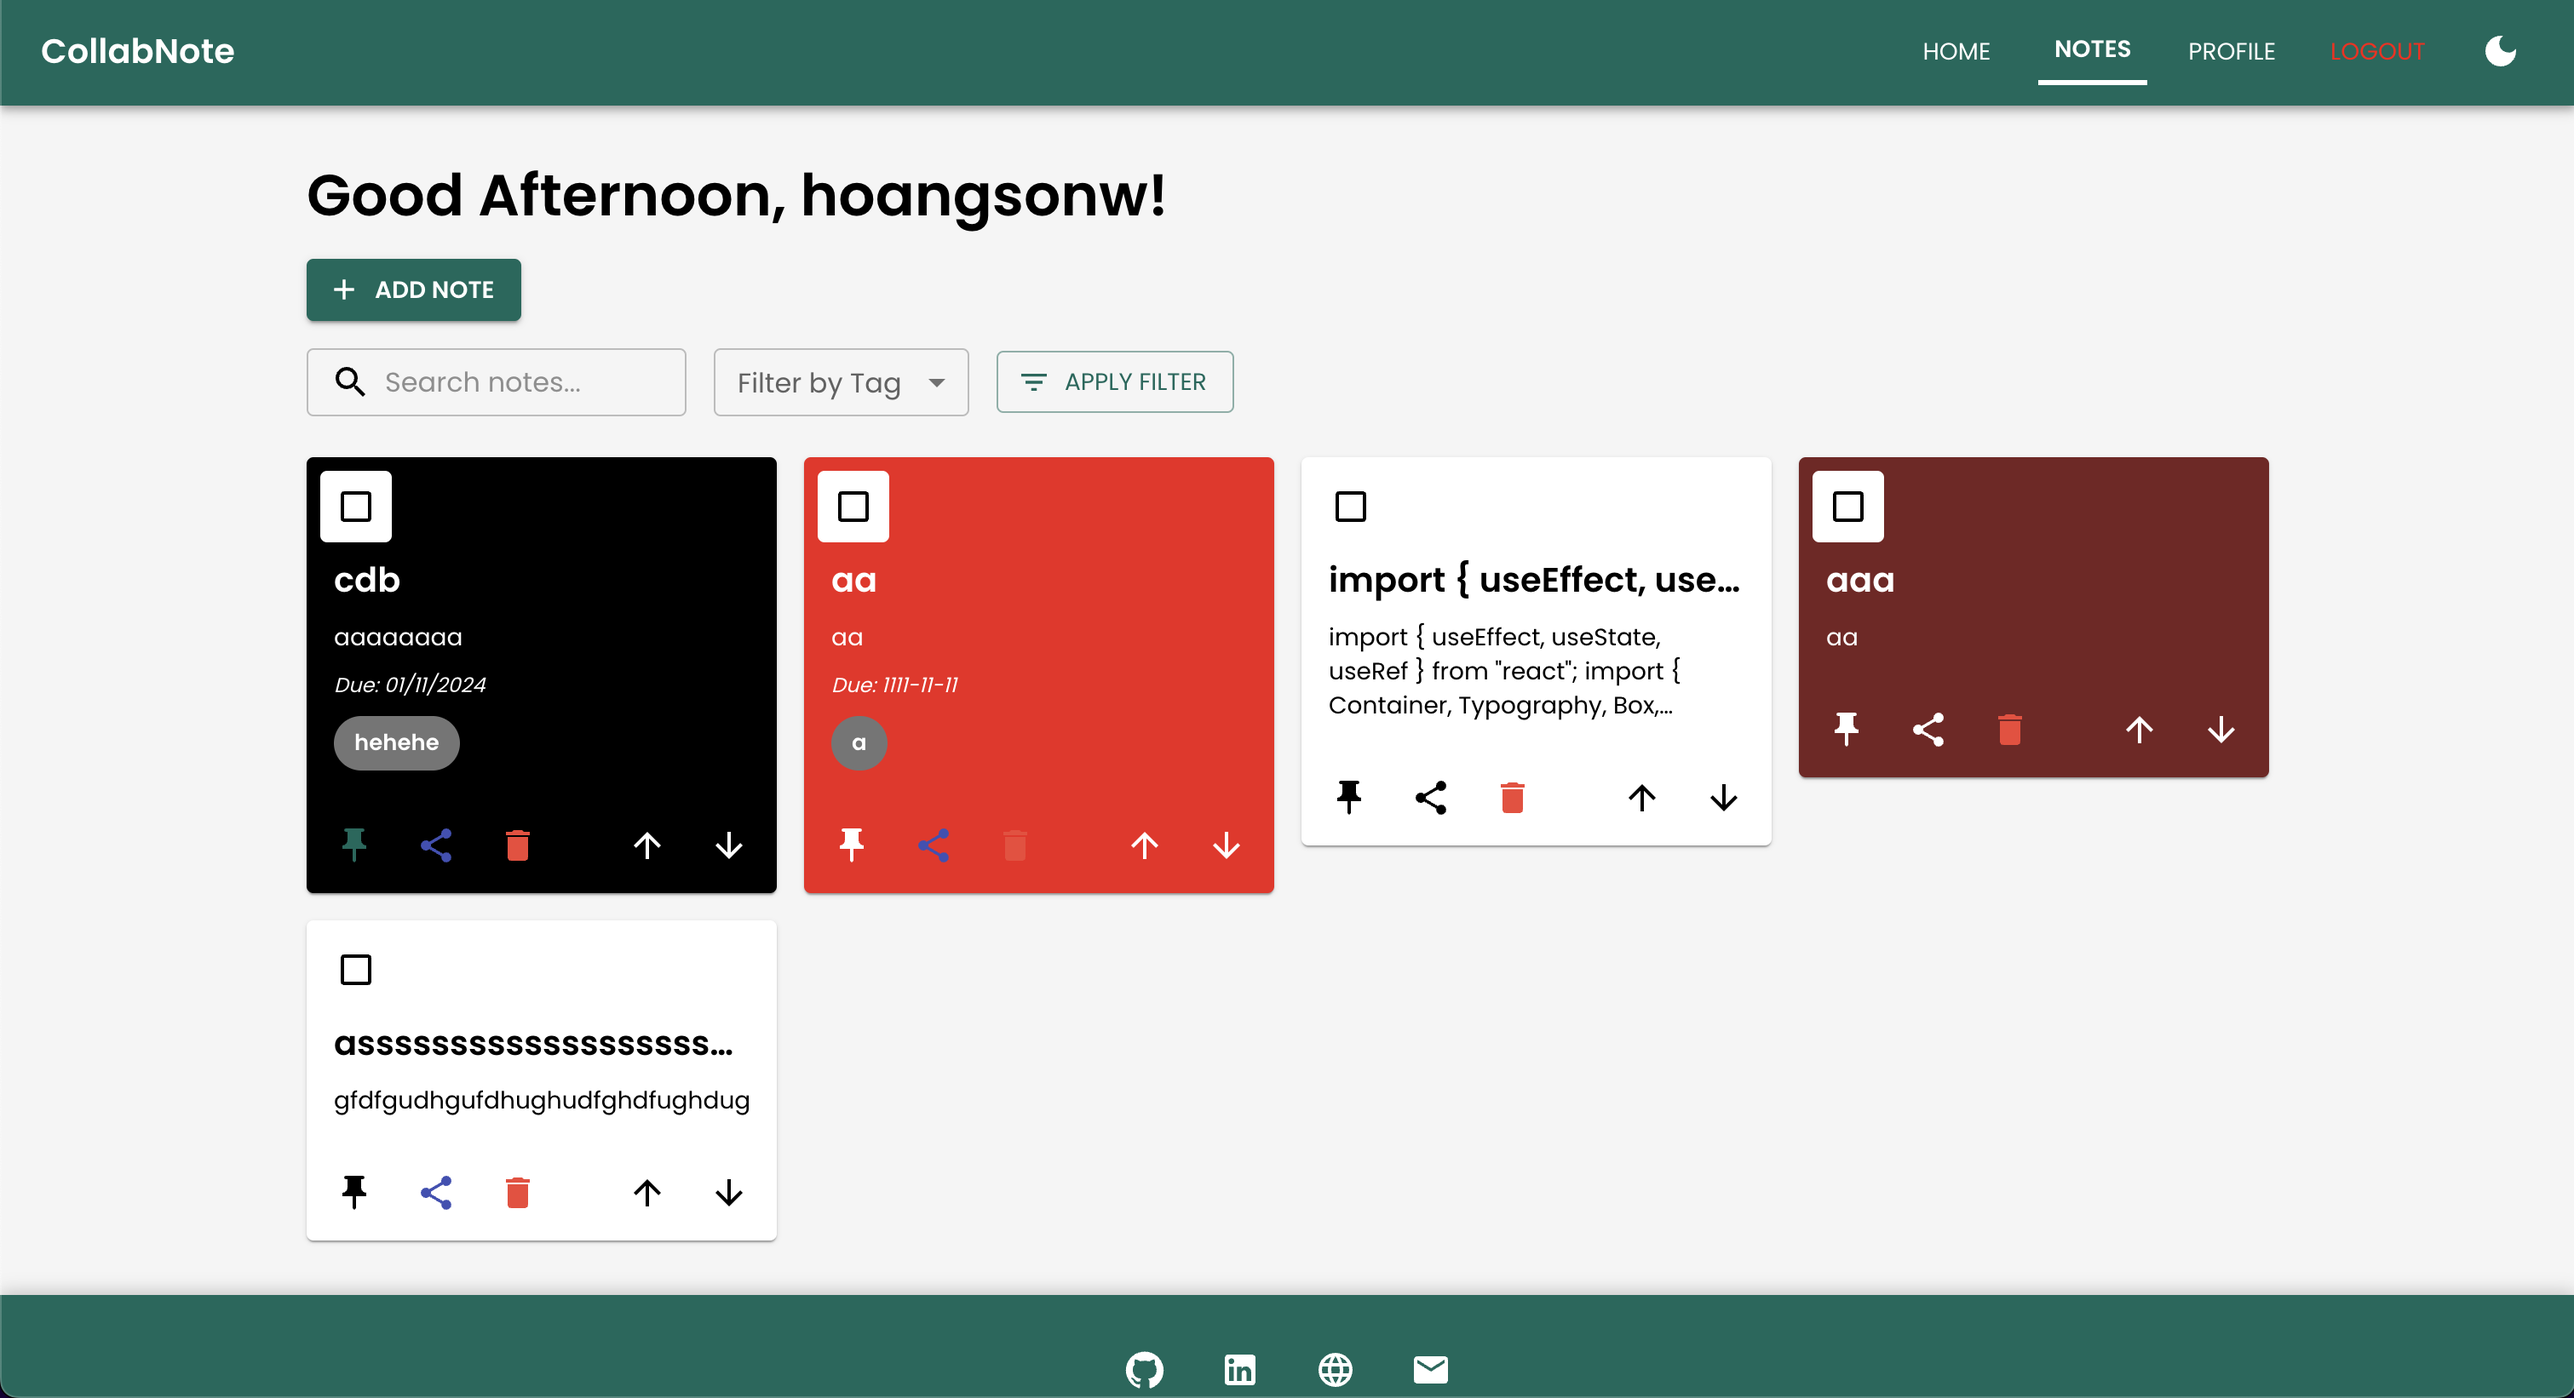
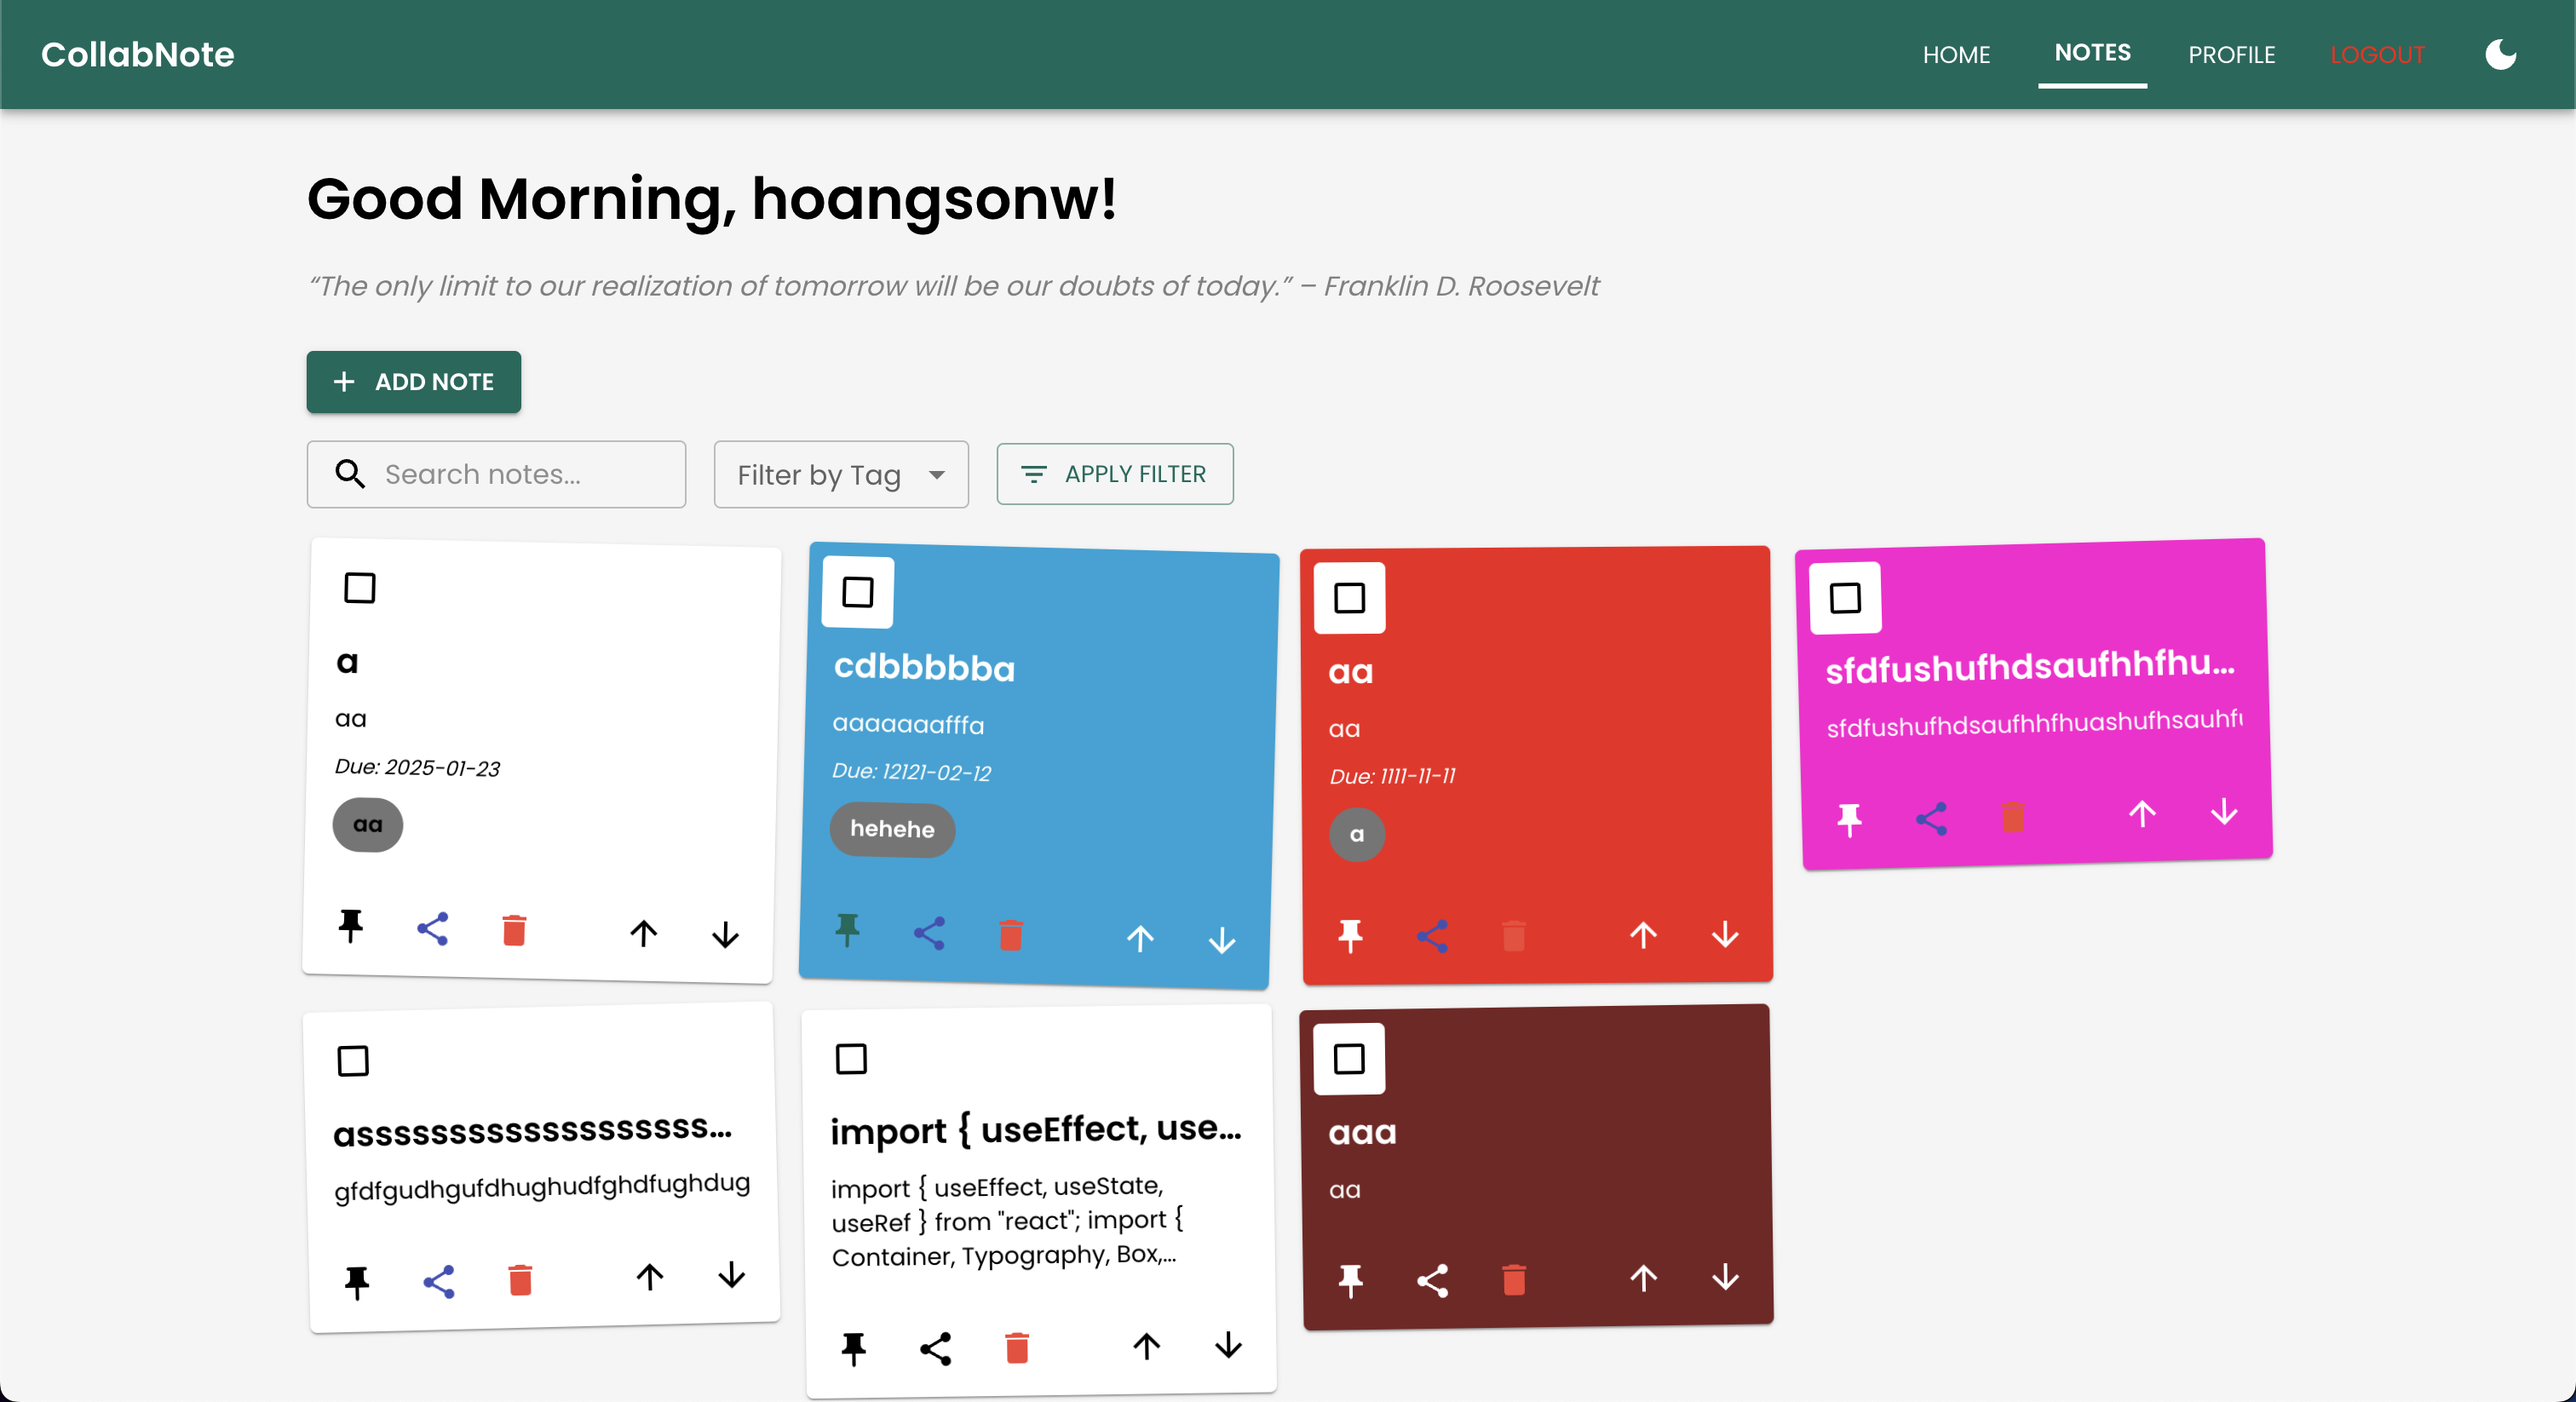
Final: Update App Business Logic

diff --git a/frontend/src/routes/NotesPage.tsx b/frontend/src/routes/NotesPage.tsx
@@ -38,6 +38,7 @@ import {
 } from "@mui/icons-material";
 import { useNavigate } from "react-router-dom";
 import LoadingOverlay from "../components/LoadingOverlay";
+import { styled, keyframes } from "@mui/material/styles";
 
 const PREDEFINED_TAGS: { label: string; color: string }[] = [
   { label: "Work", color: "#F44336" },
@@ -45,6 +46,29 @@ const PREDEFINED_TAGS: { label: string; color: string }[] = [
   { label: "Urgent", color: "#FF9800" },
   { label: "Leisure", color: "#9C27B0" },
 ];
+
+const getTiltAngle = (noteId: number): number => {
+  return Math.sin(noteId) * 1.5; // Returns a value between approximately -5 and +5.
+};
+
+// A helper function to create a keyframes animation. It keeps the same tilt
+// so the note appears to "float" while preserving the initial rotation.
+const createStickyAnimation = (tilt: number) => keyframes`
+  0% { transform: rotate(${tilt}deg) translateY(0); }
+  50% { transform: rotate(${tilt}deg) translateY(-4px); }
+  100% { transform: rotate(${tilt}deg) translateY(0); }
+`;
+
+const StickyNoteCard = styled(Card)(({ tilt }: { tilt: number }) => ({
+  transform: `rotate(${tilt}deg) translateY(0)`,
+  transition: "transform 0.2s, box-shadow 0.2s",
+  animation: `${createStickyAnimation(tilt)} 3s ease-in-out infinite`,
+  "&:hover": {
+    animation: "none", // Pause the floating animation on hover.
+    transform: `rotate(${tilt}deg) translateY(-4px)`,
+    boxShadow: "0 8px 16px rgba(0,0,0,0.2)",
+  },
+}));
 
 type Note = {
   id: number;
@@ -568,8 +592,7 @@ export default function NotesPage() {
       <LoadingOverlay loading={loading} />
       <Container maxWidth="lg" sx={{ pt: 4, pb: 4 }}>
         <Typography variant="h4" sx={{ mb: 2, fontWeight: 600 }}>
-          Good {new Date().getHours() < 12 ? "Morning" : "Afternoon"},{" "}
-          {username}!
+          Good {new Date().getHours() < 12 ? "Morning" : "Afternoon"}, {username}!
         </Typography>
         <Typography
           variant="subtitle1"
@@ -645,19 +668,14 @@ export default function NotesPage() {
         <Grid container spacing={2}>
           {notes.map((note) => {
             const textColor = getContrastingTextColor(note.color || "#FFFFFF");
+            // Use the helper to get a deterministic tilt based on note.id.
+            const tilt = getTiltAngle(note.id);
 
             return (
               <Grid key={note.id} item xs={12} sm={6} md={4} lg={3}>
-                <Card
-                  sx={{
-                    backgroundColor: note.color || "#ffffff",
-                    position: "relative",
-                    transition: "transform 0.2s, box-shadow 0.2s",
-                    "&:hover": {
-                      transform: "translateY(-4px)",
-                      boxShadow: 6,
-                    },
-                  }}
+                <StickyNoteCard
+                  tilt={tilt}
+                  sx={{ backgroundColor: note.color || "#ffffff", position: "relative" }}
                 >
                   <Box
                     sx={{ position: "absolute", top: 8, left: 8, zIndex: 10 }}
@@ -680,7 +698,7 @@ export default function NotesPage() {
                       cursor: "pointer",
                       pt: 5,
                       mt: 2,
-                      color: textColor, // Apply dynamic text color
+                      color: textColor, // Dynamic text color for contrast
                     }}
                   >
                     <Typography
@@ -690,7 +708,7 @@ export default function NotesPage() {
                         overflow: "hidden",
                         textOverflow: "ellipsis",
                         whiteSpace: "nowrap",
-                        color: textColor, // Apply dynamic text color
+                        color: textColor,
                       }}
                     >
                       {note.title}
@@ -705,7 +723,7 @@ export default function NotesPage() {
                         display: "-webkit-box",
                         WebkitLineClamp: 3,
                         WebkitBoxOrient: "vertical",
-                        color: textColor, // Apply dynamic text color
+                        color: textColor,
                       }}
                     >
                       {note.content}
@@ -717,7 +735,7 @@ export default function NotesPage() {
                           display: "block",
                           mt: 1,
                           fontStyle: "italic",
-                          color: textColor, // Apply dynamic text color
+                          color: textColor,
                         }}
                       >
                         Due: {note.due_date}
@@ -730,7 +748,7 @@ export default function NotesPage() {
                           display: "flex",
                           flexWrap: "wrap",
                           gap: 1,
-                          color: textColor, // Apply dynamic text color
+                          color: textColor,
                         }}
                       >
                         {note.tags.map((tag, idx) => {
@@ -802,7 +820,7 @@ export default function NotesPage() {
                       </IconButton>
                     </Box>
                   </CardActions>
-                </Card>
+                </StickyNoteCard>
               </Grid>
             );
           })}
